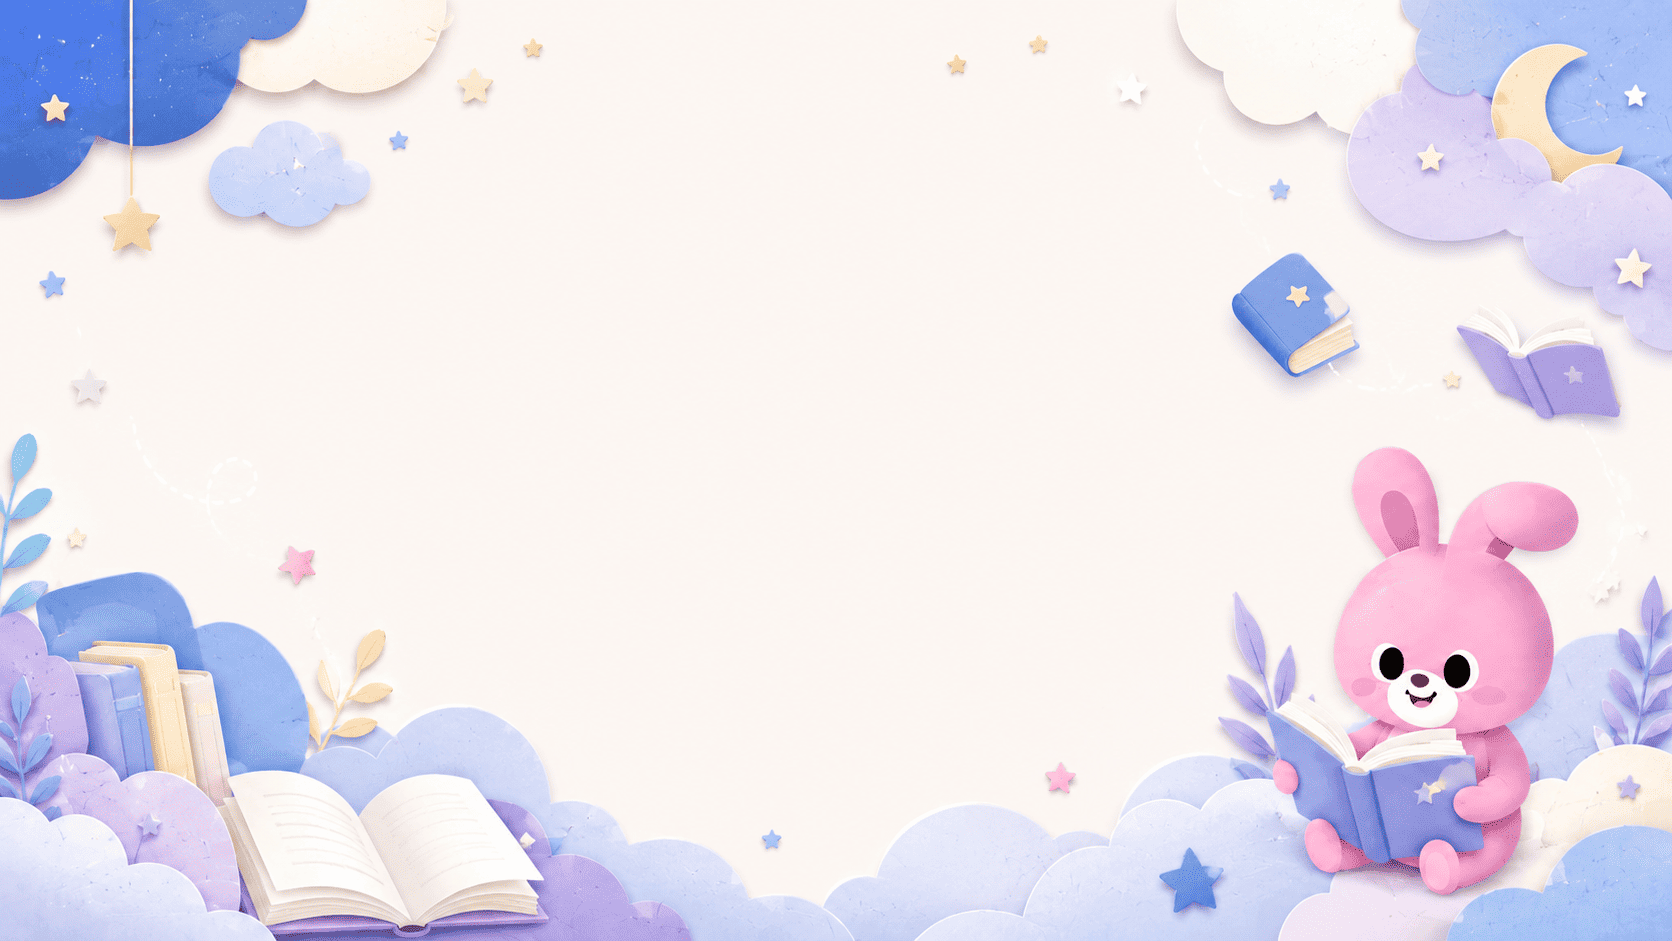
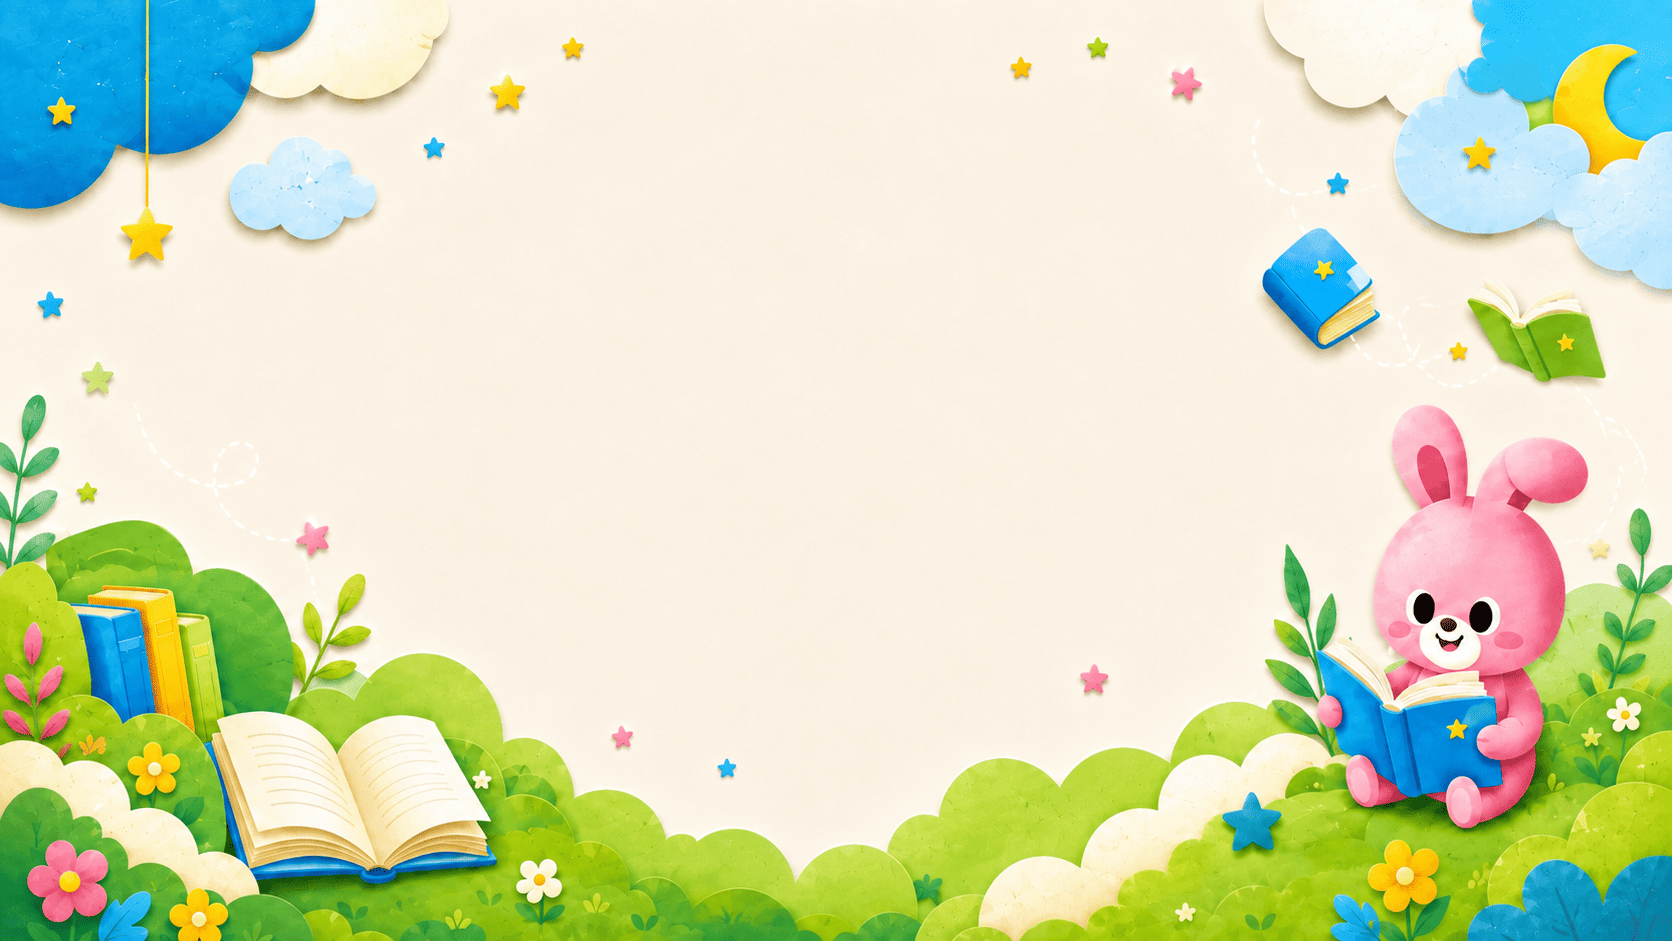
fix(teacher): 교수자 사이드바 너비/문구 수정 및 최근 학습 이력 정확도/기간 갱신 처리

diff --git a/src/stores/training.ts b/src/stores/training.ts
@@ -1136,10 +1136,12 @@ export const useTrainingStore = defineStore('training', () => {
     abortHistoryRequests()
     historyGeneration += 1
     historyCurriculumGeneration += 1
-    historyDetailGeneration += 1
-    historyGazeGeneration += 1
-    clearHistoryState(studentId, false)
-    await loadCurriculumLogs(studentId, false)
+
+    curriculumLogsStatus.value = 'loading'
+    curriculumLogsError.value = null
+    curriculumLogsUiError.value = null
+
+    await loadCurriculumLogs(studentId, false, true)
   }
 
   async function retryHistory(): Promise<void> {
@@ -1156,12 +1158,18 @@ export const useTrainingStore = defineStore('training', () => {
     await loadCurriculumLogs(studentId, false)
   }
 
-  async function loadCurriculumLogs(studentId: number, background = false): Promise<boolean> {
+  async function loadCurriculumLogs(
+    studentId: number,
+    background = false,
+    onlyCurriculumReload = false,
+  ): Promise<boolean> {
     const controller = new AbortController()
     historyController = controller
     const generation = historyGeneration
     const requestedPeriod = period.value
-    if (!background && curriculumLogs.value.length === 0) curriculumLogsStatus.value = 'loading'
+    if (!background && (curriculumLogs.value.length === 0 || onlyCurriculumReload)) {
+      curriculumLogsStatus.value = 'loading'
+    }
     curriculumLogsError.value = null
     try {
       const logs = await repository.value.getCurriculumLogs(studentId, requestedPeriod, {
@@ -1179,12 +1187,16 @@ export const useTrainingStore = defineStore('training', () => {
         (left, right) =>
           right.date.localeCompare(left.date) || right.curriculumId - left.curriculumId,
       )
-      selectedCurriculumId.value = curriculumLogs.value.some(
+      const hasRetained = curriculumLogs.value.some(
         (item) => item.curriculumId === retainedCurriculumId,
       )
+      selectedCurriculumId.value = hasRetained
         ? retainedCurriculumId
         : (curriculumLogs.value[0]?.curriculumId ?? null)
       curriculumLogsStatus.value = 'success'
+      if (onlyCurriculumReload && hasRetained && trainingLogStatus.value === 'success') {
+        return true
+      }
       if (selectedCurriculumId.value !== null) {
         await loadHistoryCurriculum(studentId, selectedCurriculumId.value)
       } else {

diff --git a/src/components/teacher/StudentSwitcher.vue b/src/components/teacher/StudentSwitcher.vue
@@ -148,7 +148,7 @@ onBeforeUnmount(() => {
       :aria-expanded="isOpen"
       aria-haspopup="dialog"
       aria-controls="student-switcher-popover"
-      :aria-label="currentStudent ? '학습자 변경' : '아동 목록에서 학습자 선택'"
+      :aria-label="currentStudent ? '학습자 변경' : '아동 선택'"
       @click="toggle"
     >
       <AuthenticatedImage
@@ -164,7 +164,7 @@ onBeforeUnmount(() => {
       </span>
       <span class="student-switcher__identity">
         <strong>{{ currentStudent?.name ?? '아동을 선택해 주세요' }}</strong>
-        <small>{{ currentStudent?.school ?? '목록에서 학습자 선택' }}</small>
+        <small v-if="currentStudent?.school">{{ currentStudent.school }}</small>
       </span>
       <span aria-hidden="true" class="trigger-icon">⌄</span>
     </Button>
@@ -301,10 +301,10 @@ onBeforeUnmount(() => {
   width: 100%;
   min-height: 60px;
   align-items: center;
-  gap: 10px;
-  padding: 8px 10px;
+  gap: 8px;
+  padding: 8px 8px;
   border: 1px solid var(--slate-200);
-  grid-template-columns: 42px minmax(0, 1fr) 16px;
+  grid-template-columns: 40px minmax(0, 1fr) 16px;
 }
 .student-switcher__trigger:hover {
   background: var(--interactive-hover-background);
@@ -342,14 +342,20 @@ onBeforeUnmount(() => {
 }
 .student-switcher__identity,
 .student-option > span:nth-child(2) {
-  display: grid;
+  display: flex;
+  flex-direction: column;
+  justify-content: center;
   min-width: 0;
   gap: 2px;
+  text-align: left;
 }
 .student-switcher__identity strong,
 .student-option strong {
   overflow: hidden;
   color: var(--slate-900);
+  font-size: 13px;
+  font-weight: 700;
+  letter-spacing: -0.3px;
   text-overflow: ellipsis;
   white-space: nowrap;
 }

diff --git a/src/layouts/TeacherLayout.vue b/src/layouts/TeacherLayout.vue
@@ -31,7 +31,7 @@ const { warningVisible } = storeToRefs(realtimeFreshnessStore)
   min-width: 0;
   align-items: start;
   background: var(--content-background);
-  grid-template-columns: 224px minmax(0, 1fr);
+  grid-template-columns: 240px minmax(0, 1fr);
 }
 
 .teacher-content {

diff --git a/src/components/teacher/TeacherSidebar.vue b/src/components/teacher/TeacherSidebar.vue
@@ -207,8 +207,8 @@ onMounted(() => {
   top: 0;
   display: flex;
   height: 100vh;
-  width: 224px;
-  min-width: 224px;
+  width: 240px;
+  min-width: 240px;
   max-width: 100%;
   align-self: start;
   flex-direction: column;
